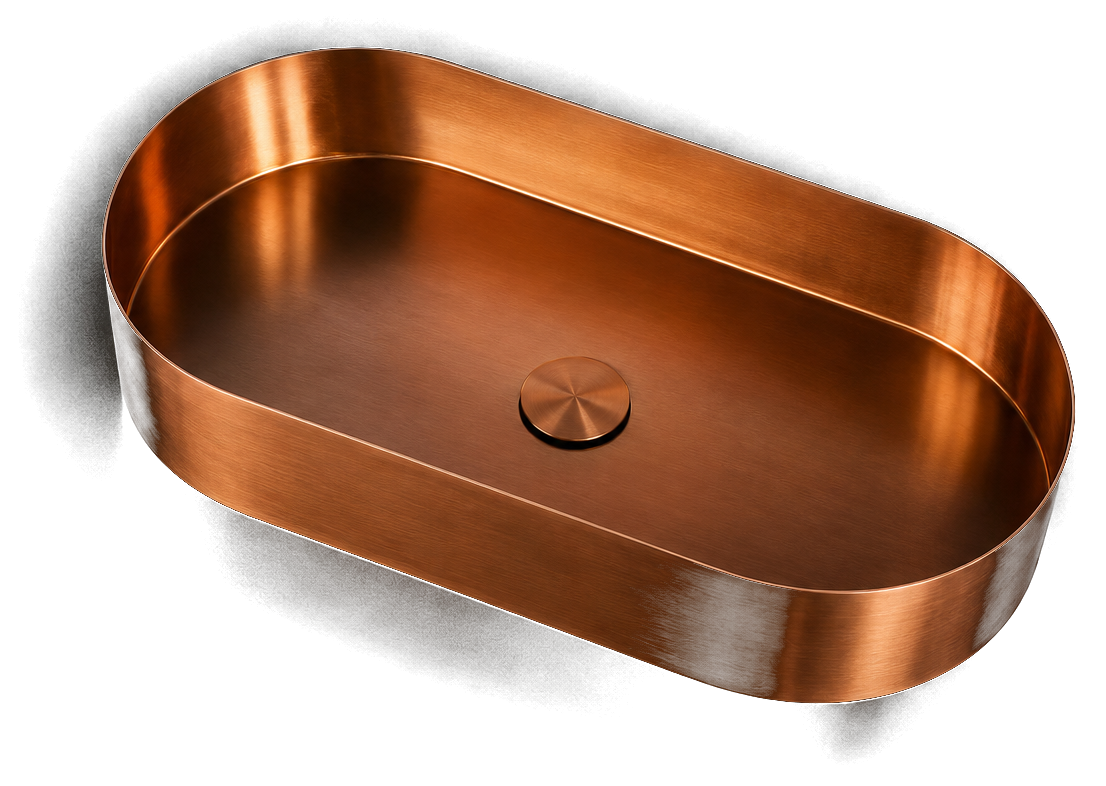
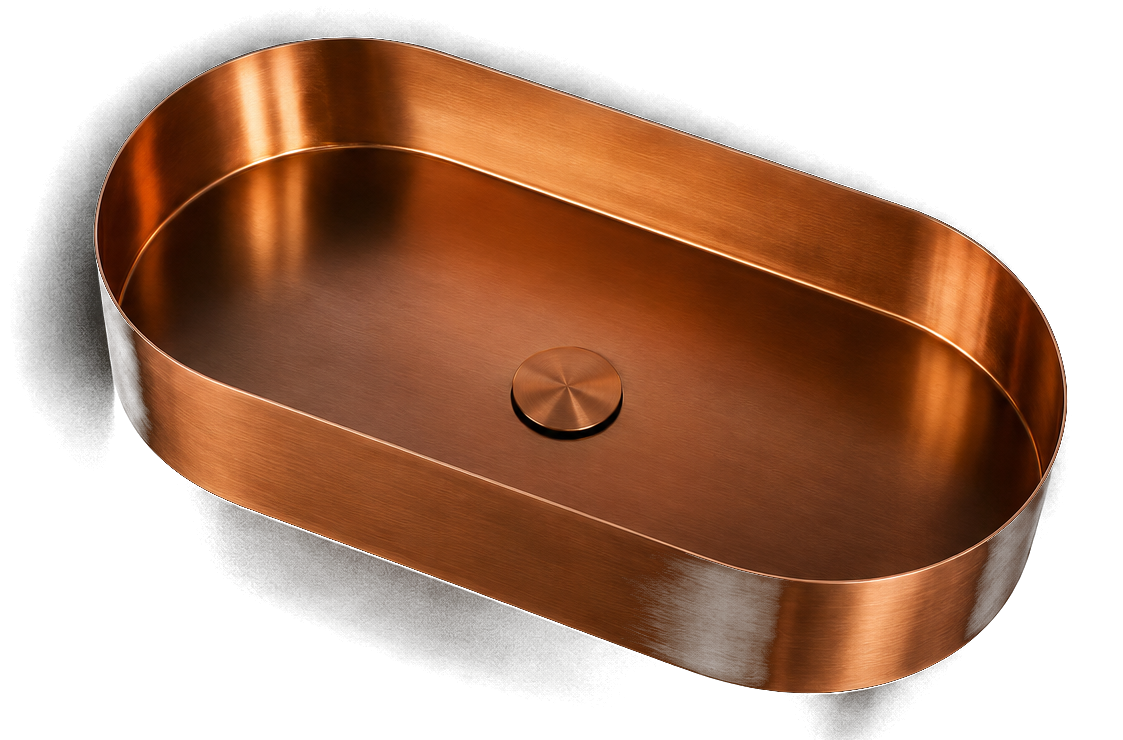
Suma Curve Black y saca la 946 de la linea
- Curve Black en familia y panel; emparejada con la Rose (mismo lienzo, producto
  al 90%) para que se vean del mismo tamano
- la 946 sale de familia, pills, frames, FIN/ORDEN y de los planos
- las dos cards de detalle que usaban macros de la 946 pasan a la 938, con el
  foco del zoom reencuadrado
- familia en celular: con 6 piezas quedan 3 + 3

Los PNG de la 946 quedan en Cloud/assets por si vuelve.

diff --git a/index.html b/index.html
@@ -160,8 +160,7 @@
   .familia-row figcaption{margin-top:12px;font-size:.82rem;letter-spacing:.16em;text-transform:uppercase;color:#8a8f96;font-weight:300;}
   @media(max-width:640px){
     .familia-row{flex-wrap:wrap;gap:14px;}
-    .familia-row figure{flex:1 1 28%;}
-    .familia-row figure:nth-child(n+4){flex:1 1 42%;}
+    .familia-row figure{flex:1 1 28%;}   /* 6 piezas: 3 + 3 */
   }
 
   /* banda gold: macro PVD full-bleed fundida a negro (reemplaza al 3D hasta tener GLB Zíngara) */
@@ -778,15 +777,14 @@
   <div class="container section">
     <div class="familia-band">
       <h2 class="intro-h2">La familia Zíngara<br><strong>completa</strong></h2>
-      <p class="familia-sub">Cuatro formatos —cuadrada, redonda, rectangular y oval— en tres acabados PVD: Black, Gold y Rose.</p>
+      <p class="familia-sub">Tres formatos —cuadrada, redonda y oval— en tres acabados PVD: Black, Gold y Rose.</p>
       <div class="familia-row">
         <figure><img src="assets/zingara-938-gold.png" alt="Zíngara 938 Gold"><figcaption>938 Gold</figcaption></figure>
         <figure><img src="assets/zingara-938-black.png" alt="Zíngara 938 Black"><figcaption>938 Black</figcaption></figure>
         <figure><img src="assets/zingara-940-gold.png" alt="Zíngara 940 Gold"><figcaption>940 Gold</figcaption></figure>
         <figure><img src="assets/zingara-940-black.png" alt="Zíngara 940 Black"><figcaption>940 Black</figcaption></figure>
-        <figure><img src="assets/zingara-946-gold.png" alt="Zíngara 946 Gold"><figcaption>946 Gold</figcaption></figure>
-        <figure><img src="assets/zingara-946-black.png" alt="Zíngara 946 Black"><figcaption>946 Black</figcaption></figure>
         <figure><img src="assets/zingara-curve-rose.png" alt="Zíngara Curve Rose"><figcaption>Curve Rose</figcaption></figure>
+        <figure><img src="assets/zingara-curve-black.png" alt="Zíngara Curve Black"><figcaption>Curve Black</figcaption></figure>
       </div>
     </div>
   </div>
@@ -801,11 +799,10 @@
       </div>
       <div class="tabs3-panels">
         <div class="t3-panel active" data-t3="modelos">
-          <p>Cuatro formatos —938 cuadrada, 940 redonda, 946 rectangular y Curve— y tres acabados según el modelo: Black, Gold y Rose.</p>
+          <p>Tres formatos —938 cuadrada, 940 redonda y Curve oval— y tres acabados según el modelo: Black, Gold y Rose.</p>
           <div class="swatches" data-model-pills>
             <button class="pill" data-model="938">938</button>
             <button class="pill" data-model="940">940</button>
-            <button class="pill" data-model="946">946</button>
             <button class="pill" data-model="curve">Curve</button>
           </div>
           <div class="modelos-row">
@@ -819,9 +816,8 @@
             <img class="color-frame" data-key="938G" src="assets/zingara-938-gold.png" alt="Zíngara 938 Gold">
             <img class="color-frame" data-key="940B" src="assets/zingara-940-black.png" alt="Zíngara 940 Black">
             <img class="color-frame active" data-key="940G" src="assets/zingara-940-gold.png" alt="Zíngara 940 Gold">
-            <img class="color-frame" data-key="946B" src="assets/zingara-946-black.png" alt="Zíngara 946 Black">
-            <img class="color-frame" data-key="946G" src="assets/zingara-946-gold.png" alt="Zíngara 946 Gold">
             <img class="color-frame" data-key="curveR" src="assets/zingara-curve-rose.png" alt="Zíngara Curve Rose">
+            <img class="color-frame" data-key="curveB" src="assets/zingara-curve-black.png" alt="Zíngara Curve Black">
           </div>
           </div>
           <p class="pvd-note"><span>Tratamiento de PVD para garantizar el color para toda la vida</span></p>
@@ -891,12 +887,12 @@
         <p>Válvula pop up incluida, en el mismo acabado que la bacha. Se abre y cierra con un toque.</p>
       </div>
       <div class="product">
-        <div class="acc-img acc-img--zoom" style="--z:3.4;--zx:45%;--zy:70%"><img src="assets/zingara-946-black.png" alt="Espesor de 1,2 mm"></div>
+        <div class="acc-img acc-img--zoom" style="--z:3.4;--zx:25%;--zy:30%"><img src="assets/zingara-938-black.png" alt="Espesor de 1,2 mm"></div>
         <h3>Espesor 1,2 mm</h3>
         <p>Acero inoxidable AISI 304 18/8 con 1,2 mm de espesor: chapa robusta, sin flexión ni vibración, para toda la vida.</p>
       </div>
       <div class="product">
-        <div class="acc-img acc-img--zoom" style="--z:3.4;--zx:30%;--zy:40%"><img src="assets/zingara-946-gold.png" alt="Acabado PVD"></div>
+        <div class="acc-img acc-img--zoom" style="--z:3.4;--zx:40%;--zy:25%"><img src="assets/zingara-938-gold.png" alt="Acabado PVD"></div>
         <h3>Acabado PVD de por vida</h3>
         <p>El color se sella al acero: no se descascara ni se destiñe. Resiste el rayado, la corrosión y el uso diario.</p>
       </div>
@@ -933,13 +929,6 @@
           <button class="d-head"><span class="d-arrow">▾</span>940 · Redonda</button>
           <div class="d-body">
             <p>Interior Ø 40 cm · 13 cm de profundidad. Acabados: Black y Gold.</p>
-          </div>
-        </div>
-
-        <div class="d-item" data-plano="assets/zingara-plano-946.png">
-          <button class="d-head"><span class="d-arrow">▾</span>946 · Rectangular</button>
-          <div class="d-body">
-            <p>Exterior 47,5 × 36,5 cm · interior 46 × 35 cm · 13 cm de profundidad. Acabado: Black.</p>
           </div>
         </div>
 
@@ -1233,12 +1222,12 @@
     var pills = document.querySelectorAll('[data-model-pills] [data-model]');
     var sw = document.querySelectorAll('[data-finish-swatches] [data-finish]');
     // acabados disponibles POR modelo (B = Black PVD, G = Gold PVD, R = Rose PVD).
-    // La 946 solo viene en Black y de la Curve solo hay foto en Rose.
-    // Gold va primero en cada modelo: FIN[model][0] es el acabado que toma la rotación
-    var FIN = {'938':['G','B'],'940':['G','B'],'946':['G','B'],'curve':['R']};
-    // SIEMPRE de la más chica a la más grande: 938 (40) → 940 (Ø40) → 946 (47,5) → Curve (oval, la más larga)
-    var ORDEN = ['938','940','946','curve'];
-    // arranca en la 940 Gold y desde ahí sigue el orden (946 → Curve → 938 → …)
+    // La Curve no tiene Gold; la 946 está fuera de la línea por ahora.
+    // El primero de cada lista es el acabado que toma la rotación
+    var FIN = {'938':['G','B'],'940':['G','B'],'curve':['R','B']};
+    // SIEMPRE de la más chica a la más grande: 938 (40) → 940 (Ø40) → Curve (oval, la más larga)
+    var ORDEN = ['938','940','curve'];
+    // arranca en la 940 Gold y desde ahí sigue el orden (Curve → 938 → …)
     var model = '940', finish = 'G', locked = false, i = ORDEN.indexOf('940');
     var fadeTimer = null;
     function render(){
